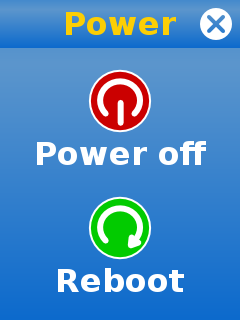
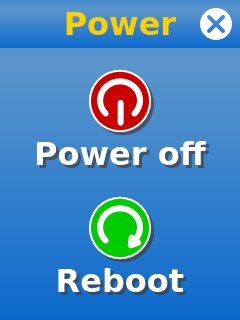
Drop shadows

diff --git a/touchui/apps/system/power/power.py b/touchui/apps/system/power/power.py
@@ -17,6 +17,9 @@ class FtcGuiApplication(TouchApplication):
         self.vbox.addStretch()
 
         self.poweroff = QToolButton()
+        shadow = QGraphicsDropShadowEffect(self)
+        shadow.setOffset(QPointF(3,3))
+        self.poweroff.setGraphicsEffect(shadow)
         self.poweroff.setSizePolicy(QSizePolicy.Expanding, QSizePolicy.Expanding)
         self.poweroff.setToolButtonStyle(Qt.ToolButtonTextUnderIcon)
         pix = QPixmap(os.path.join(os.path.dirname(os.path.realpath(__file__)), "powerdown"))
@@ -30,6 +33,9 @@ class FtcGuiApplication(TouchApplication):
         self.vbox.addStretch()
 
         self.reboot = QToolButton()
+        shadow = QGraphicsDropShadowEffect(self)
+        shadow.setOffset(QPointF(3,3))
+        self.reboot.setGraphicsEffect(shadow)
         self.reboot.setSizePolicy(QSizePolicy.Expanding, QSizePolicy.Expanding)
         self.reboot.setToolButtonStyle(Qt.ToolButtonTextUnderIcon)
         pix = QPixmap(os.path.join(os.path.dirname(os.path.realpath(__file__)), "reboot"))
